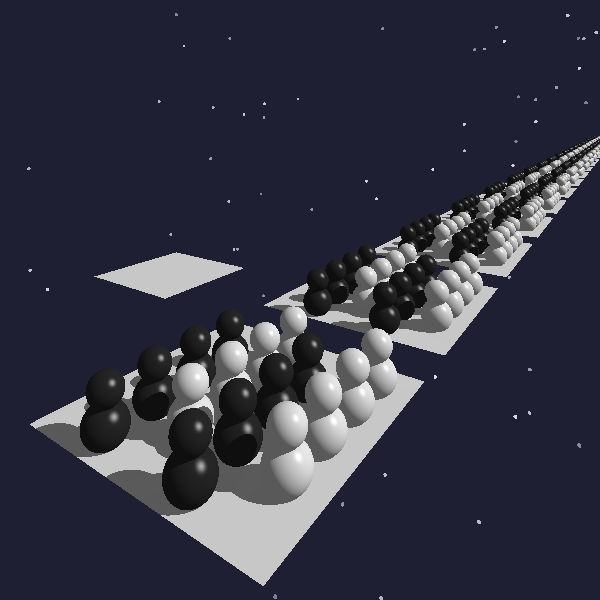
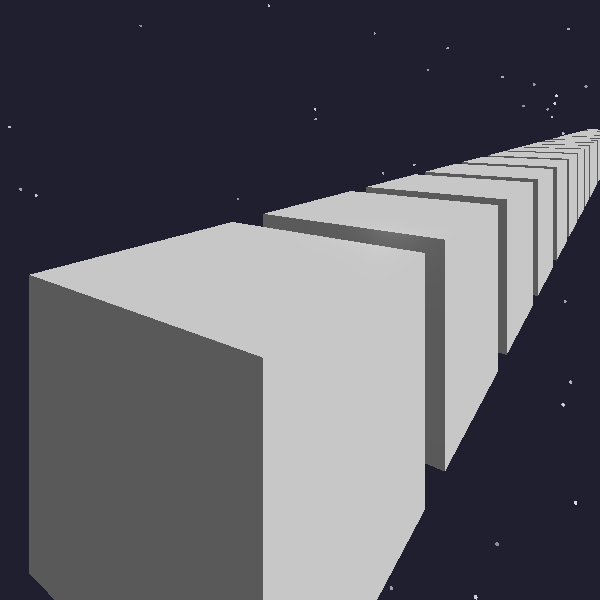
a04 newwww

diff --git a/src/tools/Mat44.java b/src/tools/Mat44.java
@@ -253,31 +253,51 @@ public final class Mat44 {
     public Mat44 invert() {
         Mat44 inv = new Mat44(); // 初始化为单位矩阵
     
-        // 1. 提取原矩阵的缩放、旋转、平移分量
-        double sx = get(0, 0);
-        double sy = get(1, 1);
-        double sz = get(2, 2);
+        // --- 1. 处理旋转部分 ---
+        // 原来的代码只能处理Y轴，现在我们要处理任意旋转。
+        // 旋转矩阵的逆 = 转置 (Transpose)，也就是把 行 变成 列。
+        
+        // 读取原矩阵的“基向量”（这代表了X, Y, Z轴的方向）
+        // 第一列 (X轴方向)
+        double r00 = get(0, 0); 
+        double r10 = get(0, 1); 
+        double r20 = get(0, 2);
+        
+        // 第二列 (Y轴方向)
+        double r01 = get(1, 0); 
+        double r11 = get(1, 1); 
+        double r21 = get(1, 2);
+        
+        // 第三列 (Z轴方向)
+        double r02 = get(2, 0); 
+        double r12 = get(2, 1); 
+        double r22 = get(2, 2);
+    
+        // 设置到逆矩阵中：行列互换 (注意看 set 的坐标变化)
+        // 例如：原矩阵的 (1,0) 放到新矩阵的 (0,1)
+        inv.set(0, 0, r00); inv.set(1, 0, r10); inv.set(2, 0, r20);
+        inv.set(0, 1, r01); inv.set(1, 1, r11); inv.set(2, 1, r21);
+        inv.set(0, 2, r02); inv.set(1, 2, r12); inv.set(2, 2, r22);
+
+        // --- 2. 处理平移部分 ---
+        // 原矩阵的平移量
         double tx = get(3, 0);
         double ty = get(3, 1);
         double tz = get(3, 2);
-        double cos = get(0, 0); // 绕Y轴旋转的cos值
-        double sin = get(2, 0); // 绕Y轴旋转的sin值
+
+        // 逆平移不仅仅是取反 (-tx)，因为坐标轴旋转了，
+        // 我们需要计算： - (旋转部分的转置 * 平移量)
+        // 这其实就是点积运算：
+        double invTx = -(r00 * tx + r10 * ty + r20 * tz);
+        double invTy = -(r01 * tx + r11 * ty + r21 * tz);
+        double invTz = -(r02 * tx + r12 * ty + r22 * tz);
+
+        inv.set(3, 0, invTx);
+        inv.set(3, 1, invTy);
+        inv.set(3, 2, invTz);
     
-        // 2. 逆缩放：缩放比例取倒数
-        inv.set(0, 0, 1.0 / sx);
-        inv.set(1, 1, 1.0 / sy);
-        inv.set(2, 2, 1.0 / sz);
-    
-        // 3. 逆旋转：绕Y轴旋转的逆是角度取反（cos不变，sin取反）
-        inv.set(0, 2, sin / sx); // 原旋转项是 -sin，逆是 +sin
-        inv.set(2, 0, -sin / sz); // 原旋转项是 +sin，逆是 -sin
-    
-        // 4. 逆平移：平移量取反 + 旋转逆变换
-        double invTx = -tx / sx;
-        double invTz = -tz / sz;
-        inv.set(3, 0, invTx * cos - invTz * sin);
-        inv.set(3, 1, -ty / sy);
-        inv.set(3, 2, invTx * sin + invTz * cos);
+        // 保持齐次坐标的 1
+        inv.set(3, 3, 1.0);
     
         return inv;
     }
@@ -330,6 +350,21 @@ public final class Mat44 {
         return mat;
     }
 
+    // 绕Z轴旋转矩阵 
+    public static Mat44 rotateZ(double angle) {
+        Mat44 mat = new Mat44();
+        double cos = Math.cos(angle);
+        double sin = Math.sin(angle);
+        // 绕Z轴旋转矩阵（列主序）
+        mat.set(0, 0, cos);
+        mat.set(0, 1, sin);
+        mat.set(1, 0, -sin);
+        mat.set(1, 1, cos);
+        mat.set(2, 2, 1.0);
+        mat.set(3, 3, 1.0);
+        return mat;
+    }
+
     /**
      * 创建平移矩阵（支持int/double参数）
      */
@@ -376,7 +411,7 @@ public final class Mat44 {
         double z = dir.x() * get(2, 0) + dir.y() * get(2, 1) + dir.z() * get(2, 2);
         return new Vec3(x, y, z);
     }
-    
+
 
 
     private double[] values;

diff --git a/src/tools/Quader.java b/src/tools/Quader.java
@@ -5,36 +5,51 @@ import tools.Ebene;
 import tools.Group;
 import tools.Mat44;
 
-
 public class Quader extends Group {
     
     public Quader(double seite, Color color) {
         // 6个正方形面，边长=seite
-        double halfSeite = seite / 2.0;
+        double half = seite / 2.0;
 
-        // 前面（Z=seite/2）
-        addFace(new Ebene(seite, true, color), 0, 0, halfSeite, 0, 0, 0);
-        // 后面（Z=-seite/2，旋转180°）
-        addFace(new Ebene(seite, true, color), 0, 0, -halfSeite, 0, Math.PI,0);
-        // 左面（X=-seite/2，旋转-90°）
-        addFace(new Ebene(seite, true, color), -halfSeite, 0, 0, 0, -Math.PI/2, 0);
-        // 右面（X=seite/2，旋转90°）
-        addFace(new Ebene(seite, true, color), halfSeite, 0, 0, 0, Math.PI/2, 0);
-        // 上面（Y=seite/2，旋转-90°）
-        addFace(new Ebene(seite, true, color), 0, halfSeite, 0, -Math.PI/2, 0, 0);
-        // 下面（Y=-seite/2，旋转90°）
-        addFace(new Ebene(seite, true, color), 0, -halfSeite, 0, Math.PI/2, 0, 0);
+        // 上面 (Top): 法线 (0, 1, 0)  不需要旋转，只需沿 +Y 平移
+        addFace(new Ebene(seite, true, color), 0, half,0, 0, 0, 0);
+
+        // 下面 (Bottom): 法线 (0, -1, 0)  绕X旋转 180度 (或者 Z 180)，然后沿 -Y 平移
+        addFace(new Ebene(seite, true, color), 0, -half,0, Math.PI,0,0);
+
+        // 前面 (Front): 法线 (0, 0, -1) [假设 -Z 为前]   原始法线 Y，绕 X 旋转 -90度 -> -Z
+        addFace(new Ebene(seite, true, color),  0, 0, -half, -Math.PI/2, 0,0);
+        
+        // 后面 (Back): 法线 (0, 0, 1)    绕 X 旋转 90度 -> +Z
+        addFace(new Ebene(seite, true, color), 0, 0, half, Math.PI/2, 0,0);
+       
+        // 右面 (Right): 法线 (1, 0, 0).  原始法线 Y，绕 Z 旋转 -90度 -> X
+        addFace(new Ebene(seite, true, color), half, 0, 0, 0, 0, -Math.PI/2);
+
+        // 左面 (Left): 法线 (-1, 0, 0).   原始法线 Y，绕 Z 旋转 90度 -> -X
+        addFace(new Ebene(seite, true, color), -half, 0, 0, 0, 0, Math.PI/2);
     }
 
-    // 辅助方法：添加单个面（平移+旋转）
+
+    // 辅助方法：添加单个面（先旋转对齐方向，再平移到位）
     private void addFace(Ebene ebene, double tx, double ty, double tz, 
                             double rx, double ry, double rz) {
         Group face = new Group();
 
-        Mat44 trans = Mat44.rotateX(rx)
-                           .multiply(Mat44.rotateX(rx))
-                           .multiply(Mat44.rotateY(ry));
-        face.setTransform(trans);
+        // 1. 计算旋转矩阵 (组合 X, Y, Z 旋转)
+        //  顺序可能依据你的 Mat44 实现有所不同，通常分开乘比较稳妥
+        Mat44 rot = Mat44.rotateX(rx)
+                         .multiply(Mat44.rotateY(ry))
+                         .multiply(Mat44.rotateZ(rz));
+
+        // 2. 计算平移矩阵
+        Mat44 trans = Mat44.translate(tx, ty, tz);
+
+        // 3. 组合变换：先旋转(局部朝向)，再平移(推到表面位置)
+        // transform = Translate * Rotate
+        Mat44 finalMat = trans.multiply(rot);
+
+        face.setTransform(finalMat);
         face.addChild(ebene);
         this.addChild(face);
     }

diff --git a/src/tools/StarrySky.java b/src/tools/StarrySky.java
@@ -36,14 +36,14 @@ public class StarrySky{
      */
     public Color getSkyColor(Vec3 rayDirection){
         // 深蓝色夜空底色
-        Color nightSky = new Color(0.01, 0.01, 0.03);
+        Color nightSky = new Color(0.01, 0.01, 0.025);
 
         // 检测光线方向是否指向星星
         for (int i = 0; i < starCount; i++) {
             // 计算光线与星星方向的点积（越接近1，方向越一致）
             double dotProduct = rayDirection.dot(starDirections[i]);
             // 阈值控制星星大小（值越大，星星越小越密集）
-            if (dotProduct > 0.999996) {
+            if (dotProduct > 0.999997) {
                 float b = starBrightness[i];
                 // 星星颜色：白色/浅黄色
                 return new Color(b, b, b + 0.1f);

diff --git a/src/cgg/A04.java b/src/cgg/A04.java
@@ -71,13 +71,6 @@ public class A04 {
 
             scene.add(snowmanMatrixGroup);  // 加入场景
         }
-
-
-         // 红色正方体（左下角）=====
-         Quader redBox = new Quader(10, new Color(0.9, 0.1, 0.1));
-         Mat44 redBoxTrans = Mat44.translate(-10, 10, -40);
-         redBox.setTransform(redBoxTrans);
-         scene.add(redBox);
       
         
         // 4. 背景色
